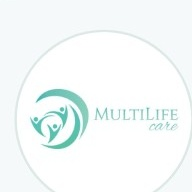
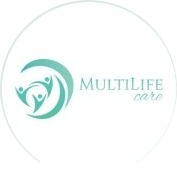
fix(commercial): make presentation, proposal and service catalog usable on mobile
- presentation: 'Quem somos' cards in one column up to 900px; client logos
  re-cropped to centered circles and shown in a round frame
- proposal: header actions in a 2-column grid and each service as a block with
  Qtd/Horas/Valor/Total beside their labels up to 767px
- service catalog: hours, rate and cost inputs aligned; internal-cost hint in
  one line below them

diff --git a/app/views/commercial/proposal_form.php b/app/views/commercial/proposal_form.php
@@ -17,13 +17,32 @@ $statusLabels = [
     'awaiting' => 'Aguardando', 'accepted' => 'Aceita', 'rejected' => 'Recusada', 'cancelled' => 'Cancelada',
 ];
 ?>
+<style>
+@media (max-width: 767.98px) {
+    /* Ações do topo: grade de 2 colunas ocupando a largura toda */
+    .proposal-actions { width: 100%; display: grid !important; grid-template-columns: repeat(2, minmax(0, 1fr)); }
+    .proposal-actions .btn { width: 100%; white-space: normal; }
+    /* Serviços: cada item vira um bloco, com o rótulo ao lado do valor */
+    .items-table thead { display: none; }
+    .items-table, .items-table tbody, .items-table tfoot { display: block; }
+    .items-table tr { display: block; padding: 10px 12px; border-bottom: 1px solid var(--bs-border-color); }
+    .items-table td { display: flex; align-items: center; justify-content: space-between; gap: 12px; padding: 4px 0; border: 0; }
+    .items-table td.it-main { display: block; padding-bottom: 8px; }
+    .items-table td[data-label]::before { content: attr(data-label); font-size: .8rem; font-weight: 600; color: var(--bs-secondary-color); text-transform: uppercase; }
+    .items-table td[data-label] .form-control { max-width: 140px; }
+    .items-table td.it-actions { justify-content: flex-end; }
+    .items-table .it-meta { flex-wrap: wrap; }
+    .items-table .it-meta > div { flex: 1 1 120px !important; }
+    .items-table tfoot td:empty { display: none; }
+}
+</style>
 <div class="main-content">
     <div class="top-bar">
         <div>
             <h5 class="mb-0">Proposta #<?= (int)$proposal['id'] ?> <span class="badge bg-secondary" id="p-revision"><?= escape($revLabel) ?></span></h5>
             <small class="text-muted"><?= escape($proposal['title']) ?> · <span id="p-status-label"><?= escape($statusLabels[$proposal['status']] ?? $proposal['status']) ?></span></small>
         </div>
-        <div class="d-flex gap-2 flex-wrap justify-content-end">
+        <div class="d-flex gap-2 flex-wrap justify-content-end proposal-actions">
             <a href="<?= baseUrl('proposal') ?>" class="btn btn-sm btn-outline-secondary"><i class="bi bi-arrow-left"></i> Voltar</a>
             <button type="button" class="btn btn-sm btn-outline-primary" onclick="openPdf()"><i class="bi bi-file-earmark-pdf"></i> Ver PDF</button>
             <button type="button" class="btn btn-sm btn-outline-info" onclick="openOnline()"><i class="bi bi-globe"></i> Ver proposta online</button>
@@ -165,7 +184,7 @@ $statusLabels = [
                 </div>
                 <div class="card-body p-0">
                     <div class="table-responsive">
-                    <table class="table table-sm mb-0 align-middle">
+                    <table class="table table-sm mb-0 align-middle items-table">
                         <thead class="table-light">
                             <tr>
                                 <th>Serviço, descrição e cronograma</th>
@@ -177,7 +196,7 @@ $statusLabels = [
                             </tr>
                         </thead>
                         <tbody id="items-body"></tbody>
-                        <tfoot><tr class="table-light"><td colspan="4" class="text-end fw-bold">Total</td><td class="fw-bold" id="grand-total">R$ 0,00</td><td></td></tr></tfoot>
+                        <tfoot><tr class="table-light"><td colspan="4" class="text-end fw-bold d-none d-md-table-cell">Total</td><td class="fw-bold" id="grand-total" data-label="Total">R$ 0,00</td><td></td></tr></tfoot>
                     </table>
                     </div>
                 </div>
@@ -276,15 +295,15 @@ function addRow(data) {
     const tb = document.getElementById('items-body');
     const tr = document.createElement('tr');
     tr.innerHTML = `
-        <td>
+        <td class="it-main">
             <input class="form-control form-control-sm it-desc" placeholder="Nome do serviço">
             <textarea class="form-control form-control-sm mt-1 it-scope" rows="2" placeholder="Descrição"></textarea>
-            <div class="d-flex gap-2 mt-1">
+            <div class="d-flex gap-2 mt-1 it-meta">
                 <div style="flex:1"><label class="form-label small mb-0 text-muted">Cobrança</label><select class="form-select form-select-sm it-billing"><option value="once">Pontual</option><option value="monthly">Mensal</option></select></div>
                 <div style="flex:1"><label class="form-label small mb-0 text-muted">Início</label><input type="date" class="form-control form-control-sm it-start"></div>
                 <div style="flex:1"><label class="form-label small mb-0 text-muted">Fim</label><input type="date" class="form-control form-control-sm it-end"></div>
             </div>
-            <div class="d-flex gap-2 mt-1 it-recurrence-wrap" style="display:none !important;">
+            <div class="d-flex gap-2 mt-1 it-meta it-recurrence-wrap" style="display:none !important;">
                 <div style="flex:1"><label class="form-label small mb-0 text-muted">Renovação</label><select class="form-select form-select-sm it-renewal"><option value="none">Sem renovação</option><option value="auto">Automática</option><option value="manual">Manual</option></select></div>
                 <div style="flex:1"><label class="form-label small mb-0 text-muted">Periodicidade</label><select class="form-select form-select-sm it-recurrence"><option value="monthly">Mensal</option><option value="yearly">Anual</option></select></div>
             </div>
@@ -292,11 +311,11 @@ function addRow(data) {
             <input type="hidden" class="it-service">
             <input type="hidden" class="it-hosting">
         </td>
-        <td><input type="number" step="0.01" min="0" class="form-control form-control-sm it-qty"></td>
-        <td><input type="number" step="0.01" min="0" class="form-control form-control-sm it-hours"></td>
-        <td><input type="number" step="0.01" min="0" class="form-control form-control-sm it-rate" title="Com horas, valor por hora. Sem horas, valor do item."></td>
-        <td class="it-total text-nowrap"></td>
-        <td><button type="button" class="btn btn-sm btn-outline-danger it-remove"><i class="bi bi-x"></i></button></td>`;
+        <td data-label="Qtd"><input type="number" step="0.01" min="0" class="form-control form-control-sm it-qty"></td>
+        <td data-label="Horas"><input type="number" step="0.01" min="0" class="form-control form-control-sm it-hours"></td>
+        <td data-label="Valor"><input type="number" step="0.01" min="0" class="form-control form-control-sm it-rate" title="Com horas, valor por hora. Sem horas, valor do item."></td>
+        <td class="it-total text-nowrap" data-label="Total"></td>
+        <td class="it-actions"><button type="button" class="btn btn-sm btn-outline-danger it-remove"><i class="bi bi-x"></i></button></td>`;
     const hours = (data.hours === null || data.hours === undefined) ? '' : data.hours;
     const rate = (data.hourly_rate === null || data.hourly_rate === undefined) ? '' : data.hourly_rate;
     const qty = (data.quantity === null || data.quantity === undefined || data.quantity === '') ? 1 : data.quantity;

diff --git a/app/views/commercial/presentation_public.php b/app/views/commercial/presentation_public.php
@@ -137,7 +137,7 @@ foreach ($sections as $idx => $s) {
         /* Clientes */
         .cards { display:grid; grid-template-columns:repeat(4, 1fr); gap:18px; }
         .card { padding:26px 22px 24px; border:1px solid var(--line); border-radius:18px; background:var(--panel); transition:transform .2s, border-color .2s, box-shadow .2s; }
-        .card .logo { width:96px; height:96px; object-fit:contain; object-position:center; background:transparent; border:none; border-radius:0; margin-bottom:16px; display:block; padding:0; }
+        .card .logo { width:96px; height:96px; object-fit:cover; object-position:center; background:#fff; border:1px solid var(--line); border-radius:50%; margin-bottom:16px; display:block; padding:0; }
         .card strong { display:block; color:var(--white); font-size:1.12rem; font-weight:700; margin-bottom:10px; letter-spacing:-.015em; }
         .card p { margin:0; color:var(--text); font-size:.95rem; line-height:1.65; }
         .sec.light .card:hover { transform:translateY(-3px); border-color:var(--line-t); box-shadow:0 12px 28px rgba(10,143,125,.08); }
@@ -210,7 +210,7 @@ foreach ($sections as $idx => $s) {
             .wrap { padding:0 28px; }
             .sec { padding:90px 0; }
             .sec-head { flex-direction:column; align-items:flex-start; gap:10px; }
-            .cards, .steps-line, .steps-rail, ul.list, .stats, .toc ol { grid-template-columns:minmax(0,1fr); }
+            .cards, .steps-line, .steps-rail, ul.list, ul.list.tight, .stats, .toc ol { grid-template-columns:minmax(0,1fr); }
             .stat + .stat { border-left:none; border-top:1px solid rgba(255,255,255,.18); }
             .steps-line::before { display:none; }
             .hero-brand { flex-direction:column; gap:20px; }
@@ -309,7 +309,7 @@ foreach ($sections as $idx => $s) {
                         <div class="cards"><?php foreach ($s['items'] as $it):
                             $img = PresentationRules::safeImage($it['image'] ?? '');
                             $more = $it['title'] === '50+';
-                            $imgSrc = $img !== '' ? preg_replace('#(?<!:)/{2,}#', '/', str_replace('\\', '/', baseUrl($img))) . '?v=5' : '';
+                            $imgSrc = $img !== '' ? preg_replace('#(?<!:)/{2,}#', '/', str_replace('\\', '/', baseUrl($img))) . '?v=6' : '';
                         ?><div class="card<?= $more ? ' more' : '' ?>"><?php if ($imgSrc !== ''): ?><img class="logo" src="<?= htmlspecialchars($imgSrc, ENT_QUOTES) ?>" alt=""><?php endif; ?><?php if ($it['title'] !== ''): ?><strong><?= $t($it['title']) ?></strong><?php endif; ?><p><?= $p($it['text']) ?></p></div><?php endforeach; ?></div>
                         <?php elseif ($s['type'] === 'table'): ?>
                         <?php $rows = array_map(fn($it) => array_merge([$it['title']], $it['text'] !== '' ? array_map('trim', explode('|', $it['text'])) : []), $s['items']); $head = array_shift($rows); ?>

diff --git a/app/views/commercial/services.php b/app/views/commercial/services.php
@@ -67,20 +67,20 @@
                     <textarea id="svc-description" class="form-control form-control-sm" rows="3"></textarea>
                 </div>
                 <div class="row g-2">
-                    <div class="col-4">
-                        <label class="form-label small fw-medium">Horas estimadas</label>
+                    <div class="col-4 d-flex flex-column">
+                        <label class="form-label small fw-medium flex-grow-1 d-flex align-items-end">Horas estimadas</label>
                         <input type="number" step="0.01" min="0" id="svc-hours" class="form-control form-control-sm">
                     </div>
-                    <div class="col-4">
-                        <label class="form-label small fw-medium">Valor/hora (R$)</label>
+                    <div class="col-4 d-flex flex-column">
+                        <label class="form-label small fw-medium flex-grow-1 d-flex align-items-end">Valor/hora (R$)</label>
                         <input type="number" step="0.01" min="0" id="svc-rate" class="form-control form-control-sm">
                     </div>
-                    <div class="col-4">
-                        <label class="form-label small fw-medium">Custo/hora (R$)</label>
+                    <div class="col-4 d-flex flex-column">
+                        <label class="form-label small fw-medium flex-grow-1 d-flex align-items-end">Custo/hora (R$)</label>
                         <input type="number" step="0.01" min="0" id="svc-cost" class="form-control form-control-sm">
-                        <small class="text-muted" style="font-size:0.68rem">Interno. Não aparece na proposta.</small>
                     </div>
                 </div>
+                <small class="text-muted d-block mt-1" style="font-size:0.72rem">Custo/hora é interno e não aparece na proposta.</small>
                 <div class="mt-2">
                     <label class="form-label small fw-medium">Cobrança</label>
                     <select id="svc-billing" class="form-select form-select-sm" onchange="svcToggleRecurrence()">

diff --git a/openspec/specs/esteira-mobile/spec.md b/openspec/specs/esteira-mobile/spec.md
@@ -1,0 +1,39 @@
+# esteira-mobile Specification
+
+## Purpose
+Telas da esteira comercial (apresentação, proposta e catálogo de serviços) legíveis e utilizáveis no celular.
+
+## Requirements
+
+### Requirement: Apresentação legível no celular
+Em telas de até 900 px, a apresentação SHALL mostrar os cards numerados de "Quem somos" em uma coluna. As logos dos clientes SHALL aparecer centralizadas, em moldura redonda e sem corte.
+
+#### Scenario: Quem somos no celular
+- **WHEN** a apresentação é aberta numa tela de 375 px
+- **THEN** os cards "Consultoria estratégica comercial", "Inteligência de mercado" e "Tecnologia sob medida" aparecem um embaixo do outro
+
+#### Scenario: Logos dos clientes
+- **WHEN** a seção de clientes é exibida
+- **THEN** cada logo aparece num círculo centralizado, sem fundo cinza e sem parte cortada
+
+### Requirement: Proposta utilizável no celular
+Em telas de até 767 px, a edição da proposta SHALL mostrar os botões do topo numa grade que ocupa a largura da tela. Cada serviço SHALL aparecer como um bloco, com Qtd, Horas, Valor e Total na mesma linha do rótulo. Em telas maiores, a tela MUST continuar com a tabela de serviços.
+
+#### Scenario: Botões do topo no celular
+- **WHEN** a proposta é aberta numa tela de 375 px
+- **THEN** Voltar, Ver PDF, Ver proposta online, Salvar e Enviar ao cliente ocupam a largura, em 2 colunas
+
+#### Scenario: Serviço no celular
+- **WHEN** a proposta tem um serviço e é aberta numa tela de 375 px
+- **THEN** o rótulo "Qtd" aparece ao lado do campo de quantidade, sem rolagem lateral
+
+#### Scenario: Computador
+- **WHEN** a proposta é aberta numa tela de 1280 px
+- **THEN** os serviços aparecem na tabela com cabeçalho Qtd, Horas, Valor e Total
+
+### Requirement: Pop-up de serviço alinhado
+O pop-up de serviço do catálogo SHALL mostrar os campos de horas estimadas, valor/hora e custo/hora alinhados na mesma altura, qualquer que seja o tamanho dos rótulos. O aviso de que o custo é interno SHALL ocupar uma linha abaixo dos três campos.
+
+#### Scenario: Rótulo em duas linhas
+- **WHEN** o pop-up é aberto numa tela de 375 px e "Horas estimadas" quebra em duas linhas
+- **THEN** os três campos continuam alinhados na mesma altura

diff --git a/openspec/changes/archive/2026-11-11-ajustar-esteira-mobile/specs/esteira-mobile/spec.md b/openspec/changes/archive/2026-11-11-ajustar-esteira-mobile/specs/esteira-mobile/spec.md
@@ -1,0 +1,34 @@
+## ADDED Requirements
+
+### Requirement: Apresentação legível no celular
+Em telas de até 900 px, a apresentação SHALL mostrar os cards numerados de "Quem somos" em uma coluna. As logos dos clientes SHALL aparecer centralizadas, em moldura redonda e sem corte.
+
+#### Scenario: Quem somos no celular
+- **WHEN** a apresentação é aberta numa tela de 375 px
+- **THEN** os cards "Consultoria estratégica comercial", "Inteligência de mercado" e "Tecnologia sob medida" aparecem um embaixo do outro
+
+#### Scenario: Logos dos clientes
+- **WHEN** a seção de clientes é exibida
+- **THEN** cada logo aparece num círculo centralizado, sem fundo cinza e sem parte cortada
+
+### Requirement: Proposta utilizável no celular
+Em telas de até 767 px, a edição da proposta SHALL mostrar os botões do topo numa grade que ocupa a largura da tela. Cada serviço SHALL aparecer como um bloco, com Qtd, Horas, Valor e Total na mesma linha do rótulo. Em telas maiores, a tela MUST continuar com a tabela de serviços.
+
+#### Scenario: Botões do topo no celular
+- **WHEN** a proposta é aberta numa tela de 375 px
+- **THEN** Voltar, Ver PDF, Ver proposta online, Salvar e Enviar ao cliente ocupam a largura, em 2 colunas
+
+#### Scenario: Serviço no celular
+- **WHEN** a proposta tem um serviço e é aberta numa tela de 375 px
+- **THEN** o rótulo "Qtd" aparece ao lado do campo de quantidade, sem rolagem lateral
+
+#### Scenario: Computador
+- **WHEN** a proposta é aberta numa tela de 1280 px
+- **THEN** os serviços aparecem na tabela com cabeçalho Qtd, Horas, Valor e Total
+
+### Requirement: Pop-up de serviço alinhado
+O pop-up de serviço do catálogo SHALL mostrar os campos de horas estimadas, valor/hora e custo/hora alinhados na mesma altura, qualquer que seja o tamanho dos rótulos. O aviso de que o custo é interno SHALL ocupar uma linha abaixo dos três campos.
+
+#### Scenario: Rótulo em duas linhas
+- **WHEN** o pop-up é aberto numa tela de 375 px e "Horas estimadas" quebra em duas linhas
+- **THEN** os três campos continuam alinhados na mesma altura

diff --git a/openspec/changes/archive/2026-11-11-ajustar-esteira-mobile/proposal.md b/openspec/changes/archive/2026-11-11-ajustar-esteira-mobile/proposal.md
@@ -1,0 +1,37 @@
+# Proposal
+
+## Why
+
+Nos testes de 2026-11-11, a Júlia apontou problemas da esteira comercial no celular:
+- Na apresentação, os cards de "Quem somos" ficam em 3 colunas estreitas, com palavras cortadas.
+- As logos dos clientes aparecem fora de centro, com círculos cortados.
+- Na proposta, os botões do topo ficam empurrados para a direita.
+- Na tabela de serviços, os campos Qtd, Horas e Valor ficam embaixo dos títulos, numa tabela com rolagem lateral.
+- No catálogo de serviços, os campos de horas e valores ficam desalinhados, e o aviso de custo interno ocupa muito espaço.
+
+## What Changes
+
+- Apresentação: até 900 px de largura, os cards numerados de "Quem somos" ficam em uma coluna.
+- Logos dos clientes refeitas: círculo centralizado, sem corte. Na página, aparecem em moldura redonda.
+- Proposta, até 767 px:
+  - Os botões do topo ficam numa grade de 2 colunas, ocupando a largura.
+  - Cada serviço vira um bloco, com Qtd, Horas, Valor e Total ao lado do rótulo.
+- Catálogo de serviços: horas, valor/hora e custo/hora ficam com os campos alinhados. O aviso de custo interno vira uma linha só, abaixo dos três campos.
+- No computador, nada muda.
+
+## Capabilities
+
+### New Capabilities
+- `esteira-mobile`: telas da esteira comercial legíveis no celular.
+
+### Modified Capabilities
+
+Nenhuma.
+
+## Impact
+
+- `app/views/commercial/presentation_public.php`: CSS dos cards e das logos.
+- `public/assets/proposal/clients/*.jpg`: logos recortadas em círculo.
+- `app/views/commercial/proposal_form.php`: CSS para celular, classes e rótulos das colunas.
+- `app/views/commercial/services.php`: campos do pop-up de serviço.
+- Sem migration e sem mudança de regra de negócio.

diff --git a/openspec/changes/archive/2026-11-11-ajustar-esteira-mobile/design.md b/openspec/changes/archive/2026-11-11-ajustar-esteira-mobile/design.md
@@ -1,0 +1,14 @@
+# Design
+
+## Decisões
+
+- O problema de "Quem somos" vem da especificidade do CSS: `ul.list.tight` (3 colunas) vencia a regra de uma coluna do `@media (max-width:900px)`, que usava só `ul.list`. A correção inclui `ul.list.tight` na mesma regra.
+- As logos eram prints de avatares redondos sobre fundo cinza, com o círculo deslocado e, em algumas, cortado embaixo. Cada imagem foi recortada no círculo e centralizada sobre fundo branco. O CSS mostra a logo em moldura redonda. O parâmetro de cache passou de `?v=5` para `?v=6`, para o navegador buscar as imagens novas.
+- Na proposta, a tabela de serviços continua sendo tabela. No celular, o CSS transforma cada linha em bloco, e o rótulo vem de `data-label` em cada célula. O JavaScript que lê as linhas não muda.
+- Os botões do topo usam uma classe própria (`proposal-actions`), para não alterar o `.top-bar` das outras telas.
+- No pop-up de serviço, cada coluna usa flex vertical e o rótulo ocupa o espaço que sobra. Assim os campos ficam alinhados, com rótulo de uma ou duas linhas.
+
+## Fora do escopo
+
+- Ajustar o `.top-bar` das demais telas do sistema.
+- Trocar as logos por versões originais dos clientes.

diff --git a/openspec/changes/archive/2026-11-11-ajustar-esteira-mobile/tasks.md b/openspec/changes/archive/2026-11-11-ajustar-esteira-mobile/tasks.md
@@ -1,0 +1,19 @@
+# Tasks
+
+## 1. Apresentação
+
+- [x] 1.1 "Quem somos" em uma coluna até 900 px. Verificar na pré-visualização a 375 px.
+- [x] 1.2 Recortar as logos dos clientes em círculo centralizado e mostrar em moldura redonda. Verificar na pré-visualização a 375 px.
+
+## 2. Proposta
+
+- [x] 2.1 Botões do topo em grade de 2 colunas até 767 px. Verificar a 375 px.
+- [x] 2.2 Serviços em blocos, com Qtd, Horas, Valor e Total ao lado do rótulo até 767 px. Verificar a 375 px e conferir que a 1280 px a tabela continua igual.
+
+## 3. Catálogo
+
+- [x] 3.1 Campos de horas e valores alinhados e aviso de custo interno em uma linha. Verificar no pop-up a 375 px.
+
+## 4. Verificação
+
+- [x] 4.1 Rodar a suíte PHPUnit e o E2E da esteira sem regressão.
